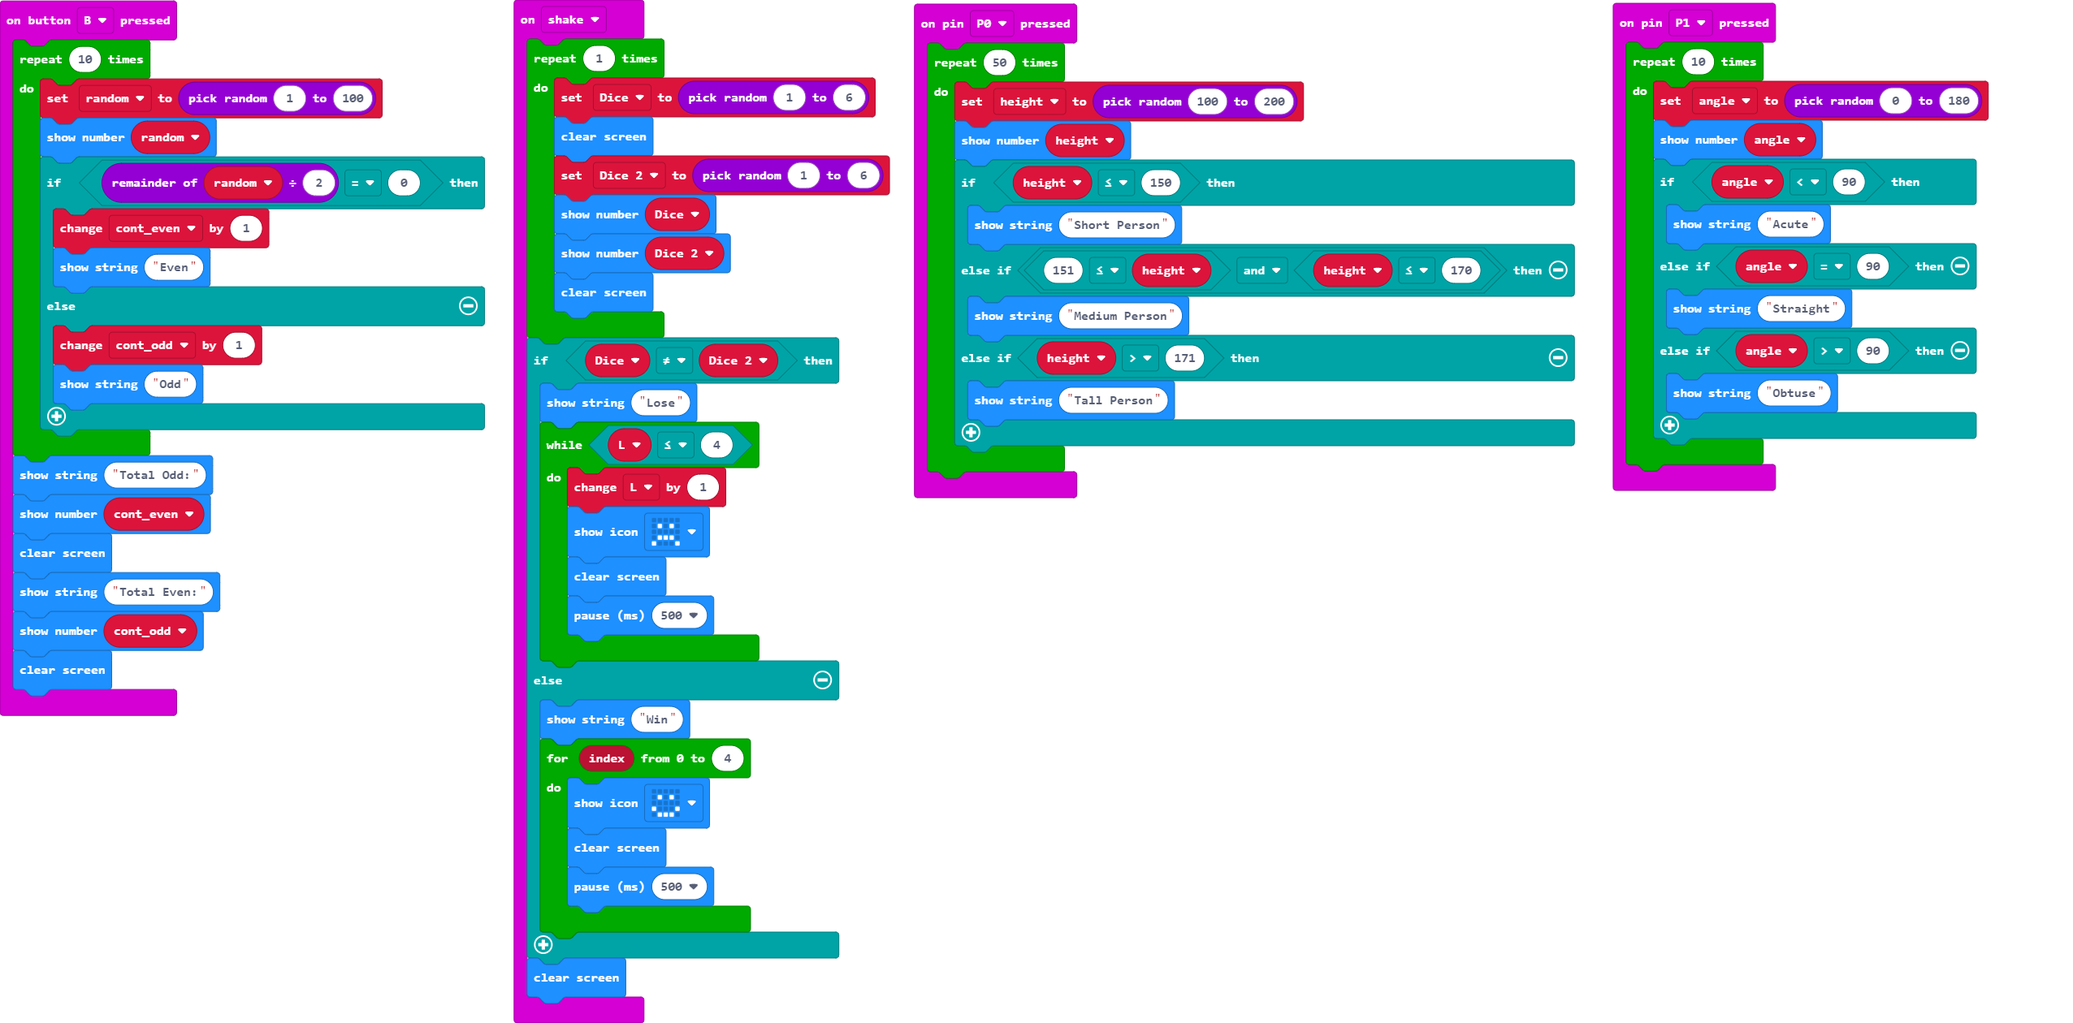
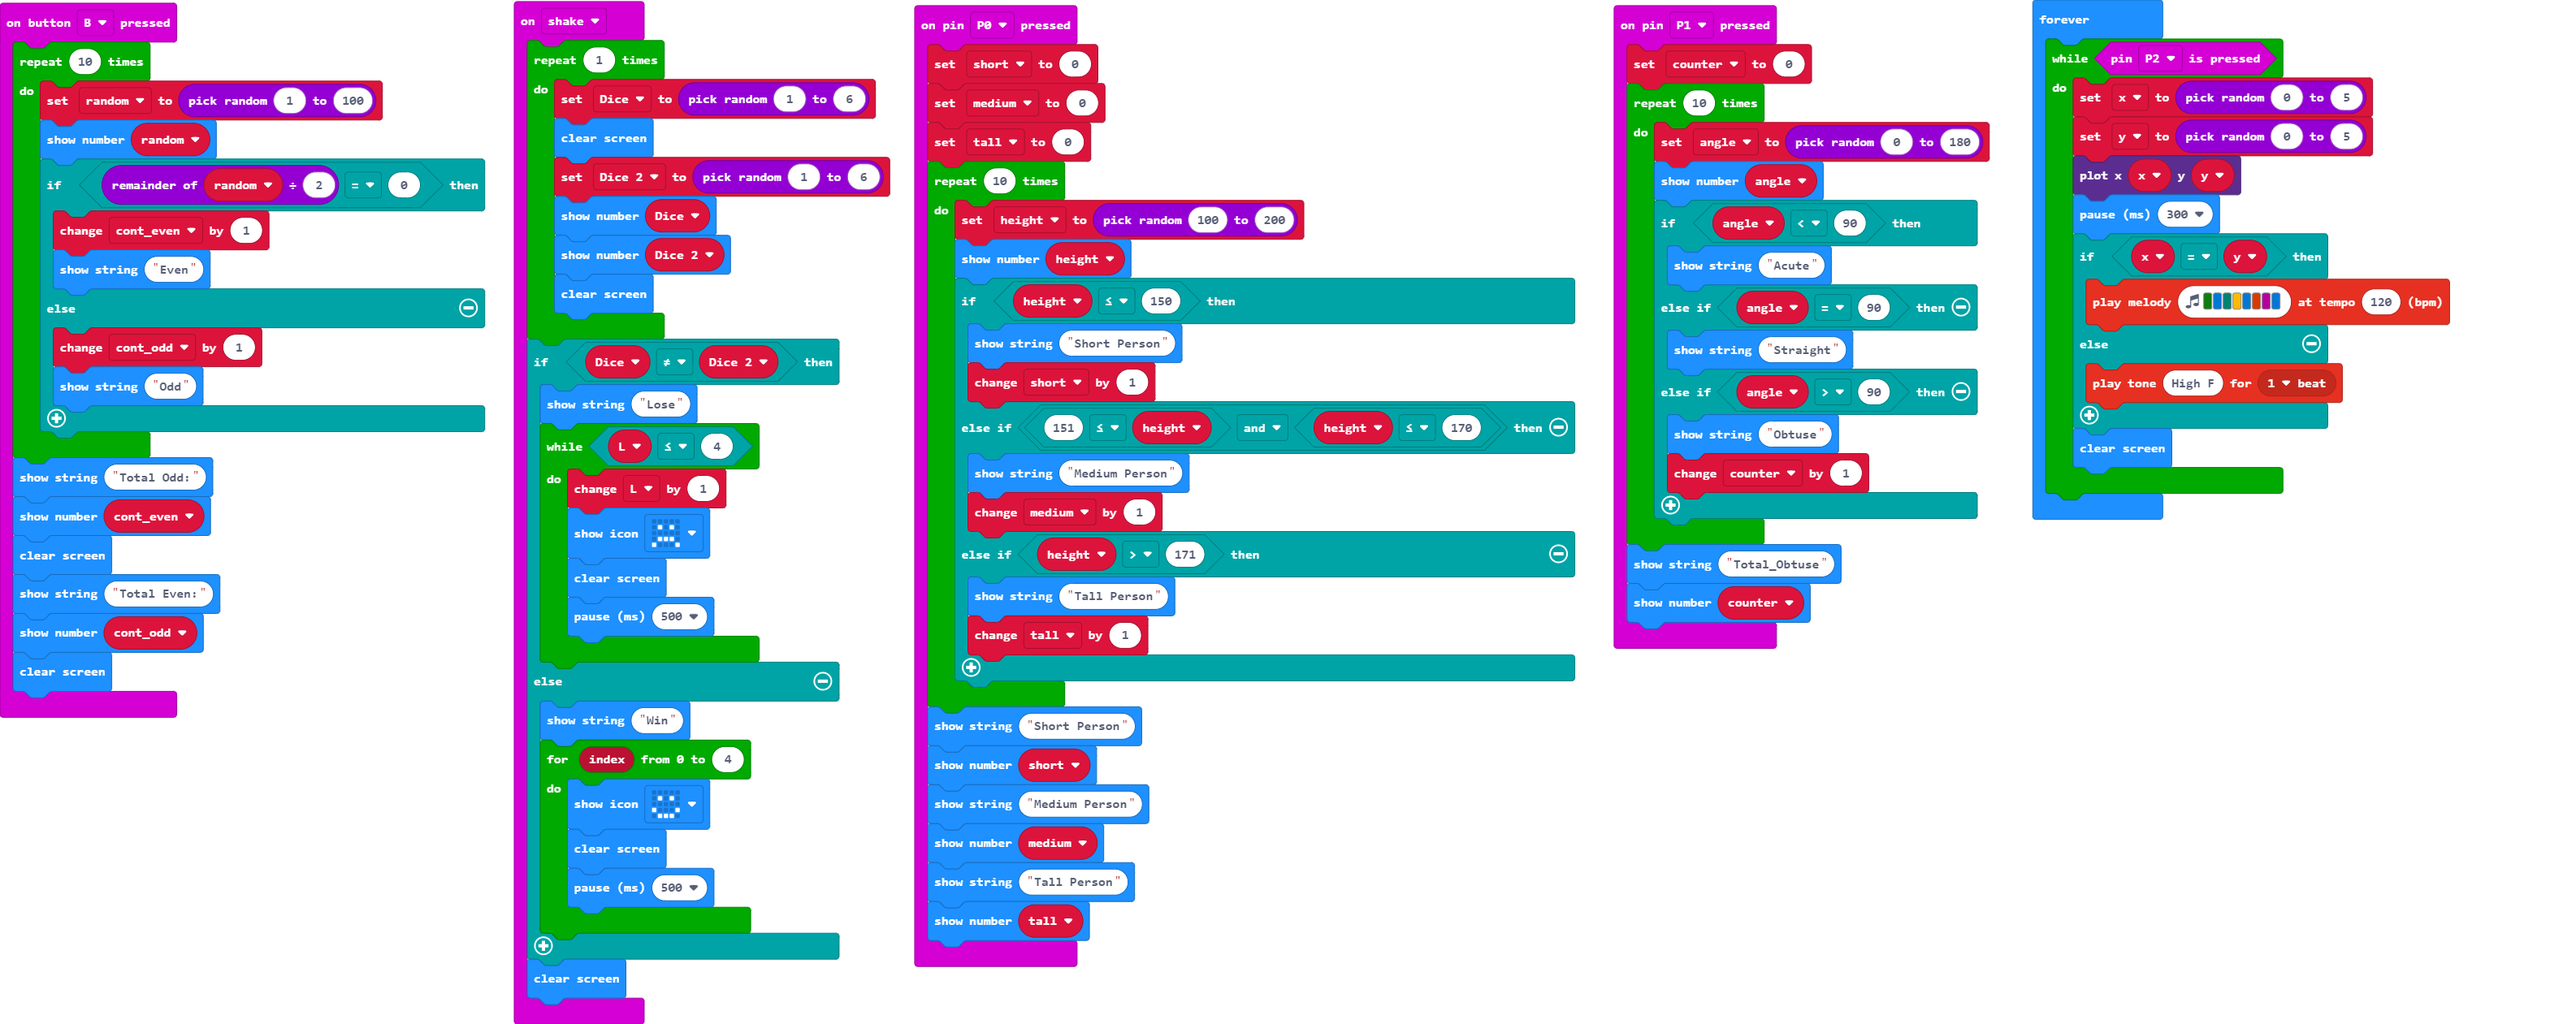
Update main.blocks, main.ts

diff --git a/main.ts b/main.ts
@@ -1,23 +1,41 @@
+let short = 0
+let medium = 0
+let tall = 0
 let height = 0
 let random = 0
 let cont_even = 0
 let cont_odd = 0
+let counter = 0
 let angle = 0
 let Dice = 0
 let Dice_2 = 0
 let L = 0
+let x = 0
+let y = 0
 input.onPinPressed(TouchPin.P0, function () {
-    for (let index = 0; index < 50; index++) {
+    short = 0
+    medium = 0
+    tall = 0
+    for (let index = 0; index < 10; index++) {
         height = randint(100, 200)
         basic.showNumber(height)
         if (height <= 150) {
             basic.showString("Short Person")
+            short += 1
         } else if (151 <= height && height <= 170) {
             basic.showString("Medium Person")
+            medium += 1
         } else if (height > 171) {
             basic.showString("Tall Person")
+            tall += 1
         }
     }
+    basic.showString("Short Person")
+    basic.showNumber(short)
+    basic.showString("Medium Person")
+    basic.showNumber(medium)
+    basic.showString("Tall Person")
+    basic.showNumber(tall)
 })
 input.onButtonPressed(Button.B, function () {
     for (let index = 0; index < 10; index++) {
@@ -39,6 +57,7 @@ input.onButtonPressed(Button.B, function () {
     basic.clearScreen()
 })
 input.onPinPressed(TouchPin.P1, function () {
+    counter = 0
     for (let index = 0; index < 10; index++) {
         angle = randint(0, 180)
         basic.showNumber(angle)
@@ -48,8 +67,11 @@ input.onPinPressed(TouchPin.P1, function () {
             basic.showString("Straight")
         } else if (angle > 90) {
             basic.showString("Obtuse")
+            counter += 1
         }
     }
+    basic.showString("Total_Obtuse")
+    basic.showNumber(counter)
 })
 input.onGesture(Gesture.Shake, function () {
     for (let index = 0; index < 1; index++) {
@@ -77,4 +99,18 @@ input.onGesture(Gesture.Shake, function () {
         }
     }
     basic.clearScreen()
+})
+basic.forever(function () {
+    while (input.pinIsPressed(TouchPin.P2)) {
+        x = randint(0, 5)
+        y = randint(0, 5)
+        led.plot(x, y)
+        basic.pause(300)
+        if (x == y) {
+            music.playMelody("G E F A E B C E ", 120)
+        } else {
+            music.playTone(698, music.beat(BeatFraction.Whole))
+        }
+        basic.clearScreen()
+    }
 })
